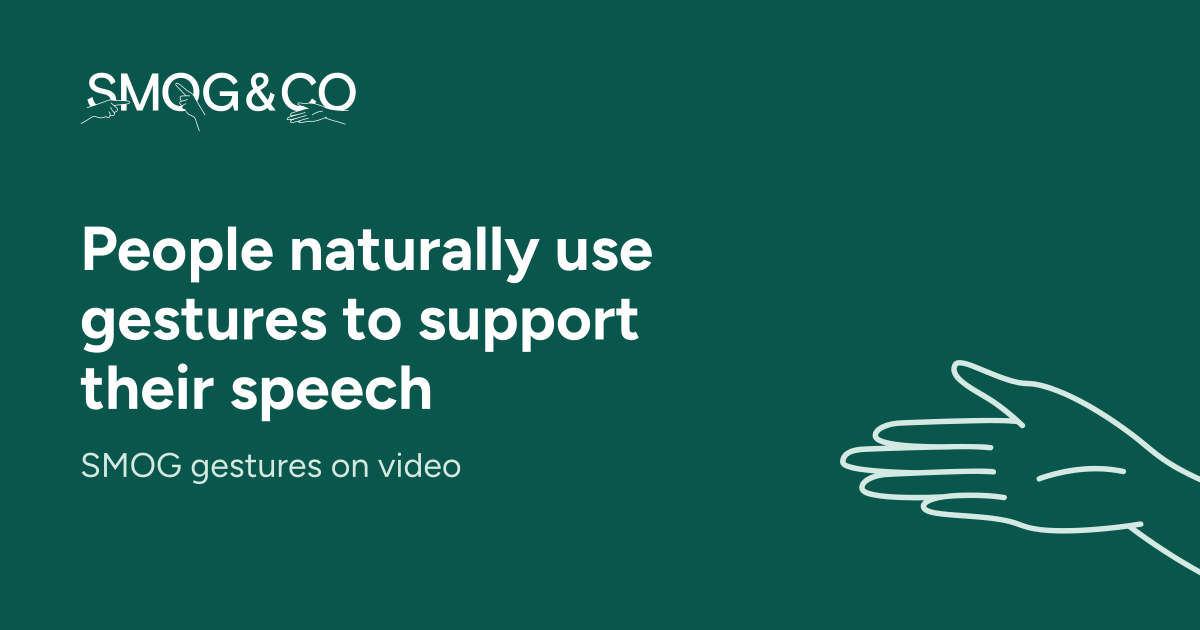
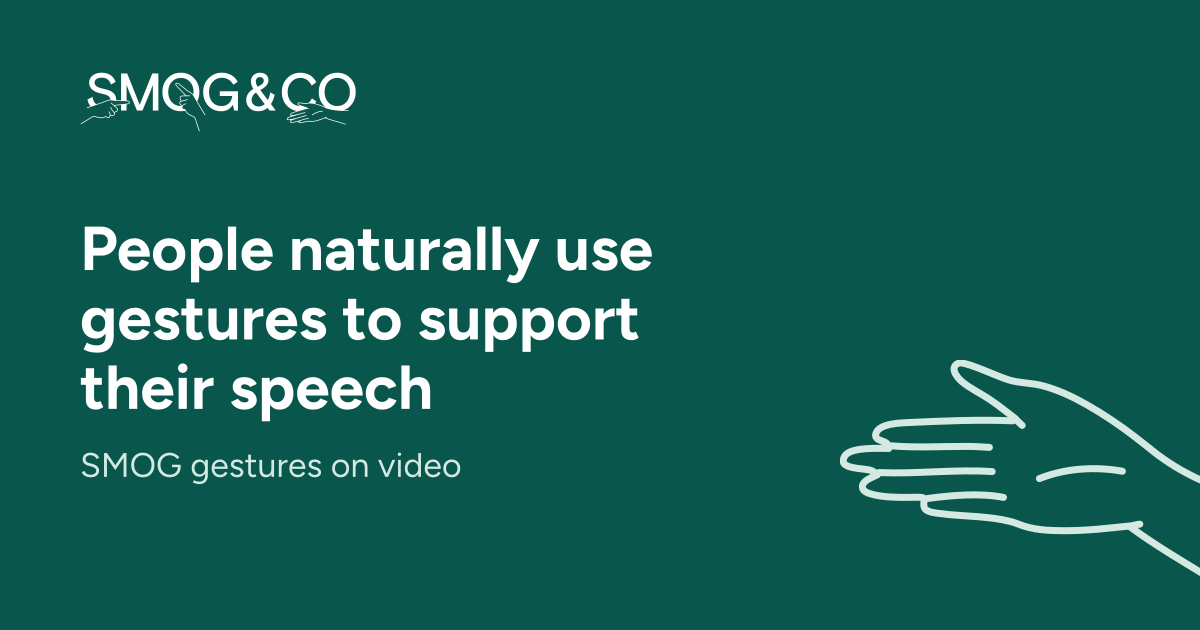
fix(site): draw the share cards' hand from the stroked artwork

diff --git a/apps/site/scripts/share-cards.ts b/apps/site/scripts/share-cards.ts
@@ -42,13 +42,15 @@ const TAGLINE = { lineHeight: 1.12, maxWidth: 780, size: 62 } as const;
 const SUBLINE_SIZE = 34;
 
 /** The open hand (`hand-3.svg`, welcome), cropped by the right edge. */
-const HAND = { width: 480, x: 840, y: 360 } as const;
+const HAND = { stroke: 7, width: 480, x: 840, y: 360 } as const;
 
 type Font = ReturnType<typeof fontkit.create>;
 
 const OPEN_TAG = /^<svg\b[^>]*>/;
 const VIEW_BOX = /\bviewBox="([^"]+)"/;
 const WHITESPACE = /\s+/;
+const PAINT_ATTRIBUTE =
+  /\b(fill|stroke|stroke-width|stroke-linecap|stroke-linejoin)="([^"]*)"/g;
 
 interface Art {
   body: string;
@@ -57,7 +59,12 @@ interface Art {
   width: number;
 }
 
-function readArt(name: string): Art {
+/**
+ * One artwork file, its root's paint attributes (`fill`, `stroke`, the line
+ * width and caps: the hands are strokes) moved onto a group, any of them
+ * overridden by `paint`.
+ */
+function readArt(name: string, paint: Record<string, string> = {}): Art {
   const source = readFileSync(`${ART}${name}`, "utf8");
   const open = source.match(OPEN_TAG)?.[0] ?? "";
   const viewBox = open.match(VIEW_BOX)?.[1] ?? "";
@@ -65,12 +72,17 @@ function readArt(name: string): Art {
   if (!(width && height)) {
     throw new Error(`[share-cards] ${name} has no readable viewBox`);
   }
-  // The artwork is drawn in currentColor; the root's fill comes along.
-  const fill = open.includes('fill="currentColor"')
-    ? ' fill="currentColor"'
-    : "";
+  const attributes = Object.fromEntries(
+    [...open.matchAll(PAINT_ATTRIBUTE)].map(([, key = "", value = ""]) => [
+      key,
+      value,
+    ])
+  );
+  const group = Object.entries({ ...attributes, ...paint })
+    .map(([key, value]) => ` ${key}="${value}"`)
+    .join("");
   return {
-    body: `<g${fill}>${source.slice(open.length, source.lastIndexOf("</svg>"))}</g>`,
+    body: `<g${group}>${source.slice(open.length, source.lastIndexOf("</svg>"))}</g>`,
     height,
     viewBox,
     width,
@@ -180,7 +192,8 @@ export function shareCardPlan(): ShareCardOutput[] {
   const bold = fontkit.create(readFileSync(`${FONTS}Figtree-Bold.ttf`));
   const regular = fontkit.create(readFileSync(`${FONTS}Figtree-Regular.ttf`));
   const logo = readArt("logo.svg");
-  const hand = readArt("hand-3.svg");
+  // The hands are drawn with a non-scaling hairline: a card-sized line here.
+  const hand = readArt("hand-3.svg", { "stroke-width": String(HAND.stroke) });
   return LOCALES.map((locale) => {
     const { t } = createI18n(locale);
     const lines = balancedWrap(
